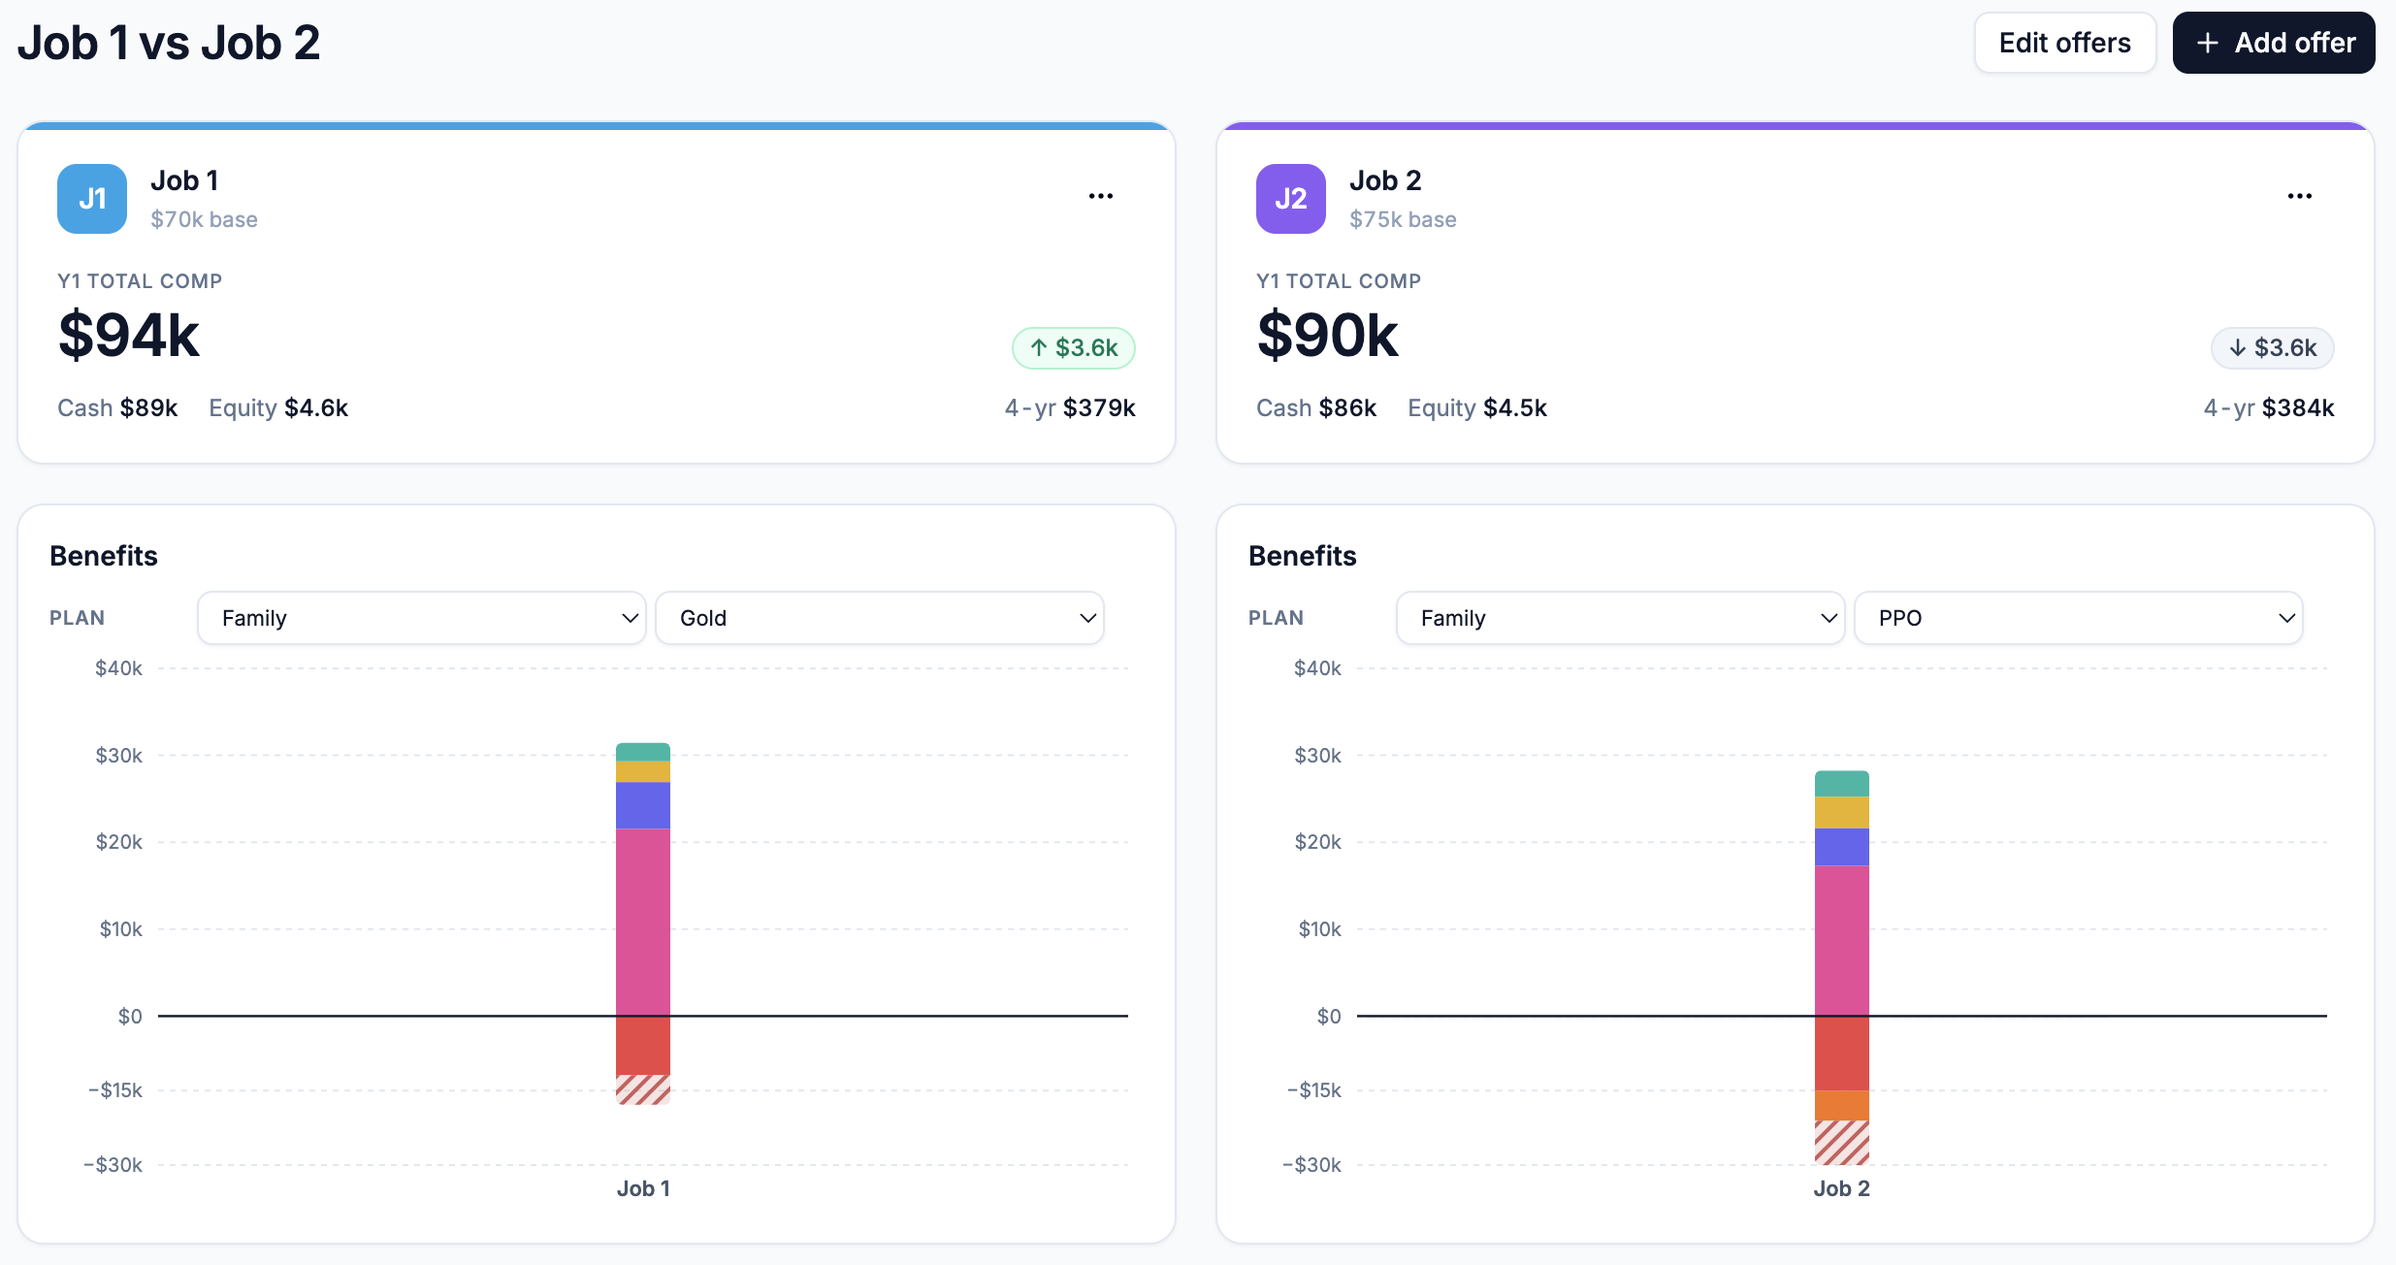
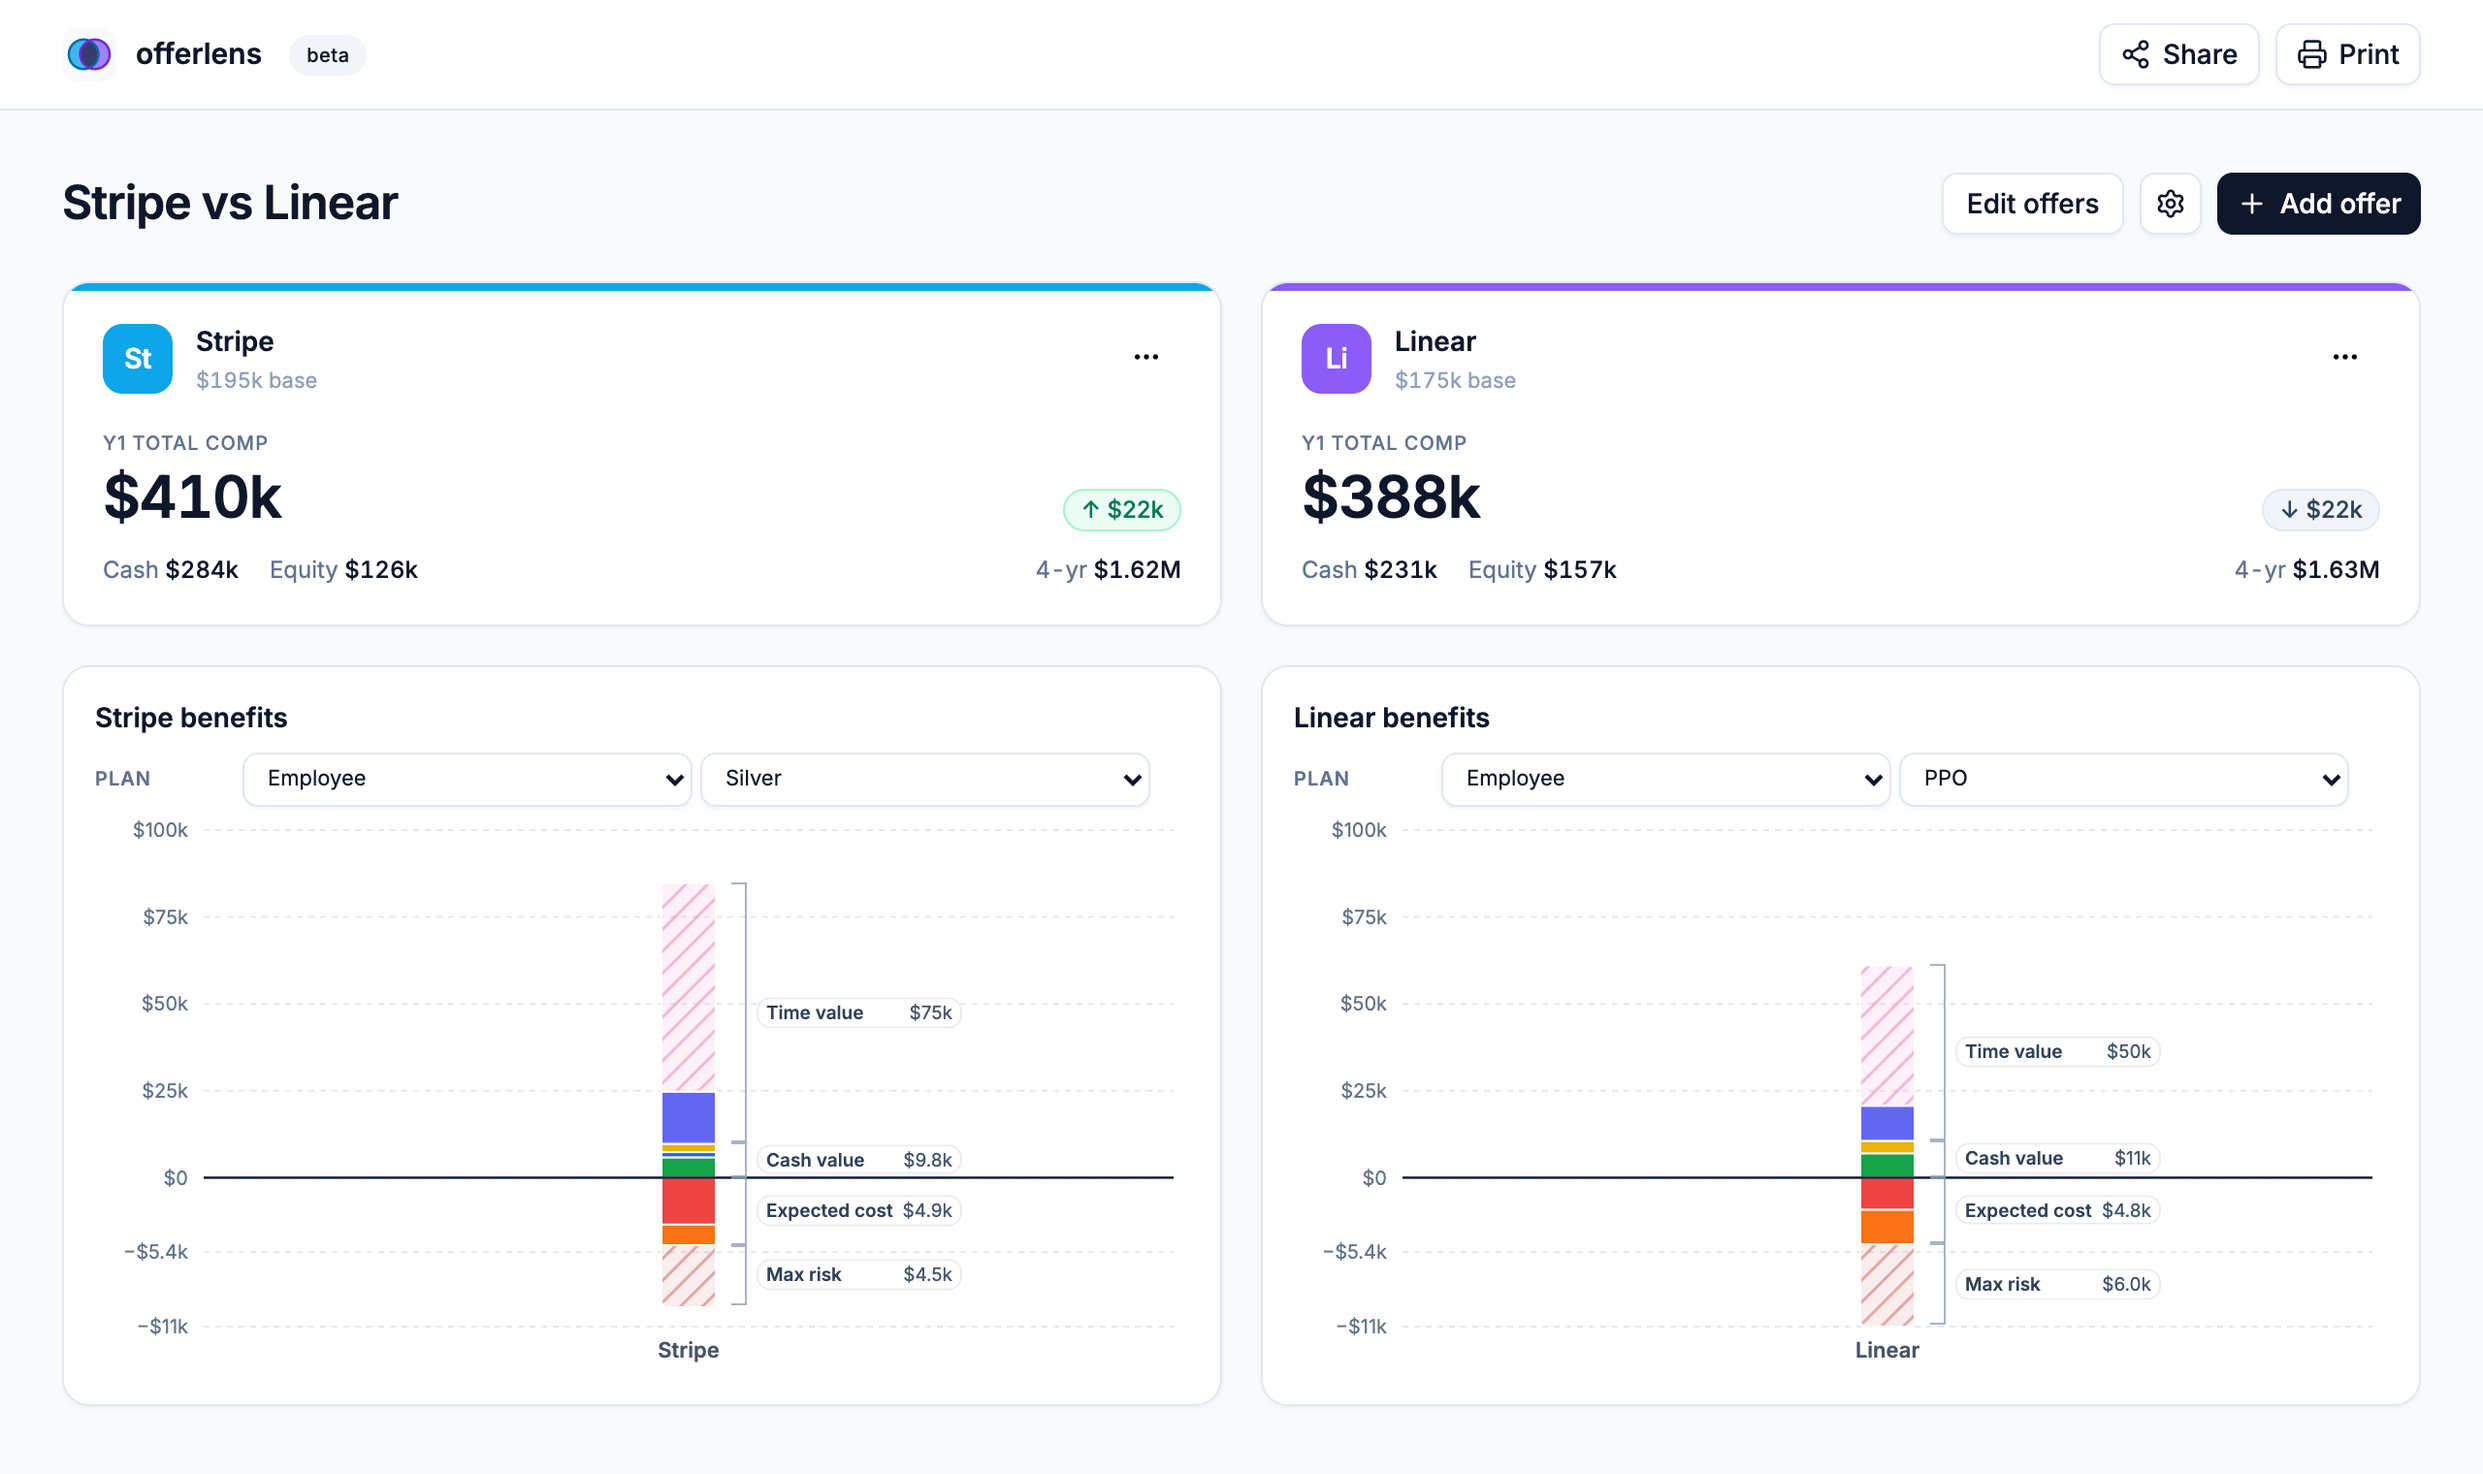
Update release docs screenshot

diff --git a/README.md b/README.md
@@ -70,7 +70,7 @@ This is a comparison tool, not a payroll model.
 - Projections use simple, explainable formulas.
 - Equity is modeled with four-year vesting.
 - Parental leave and PTO are shown as salary-equivalent values.
-- Worst-case medical cost is shown as annual premiums + deductible + OOP max.
+- Worst-case medical cost is shown as annual premiums + deductible + remaining OOP risk after deductible.
 - Schema version bumps currently reset saved local data instead of migrating it.
 
 ## Stack
